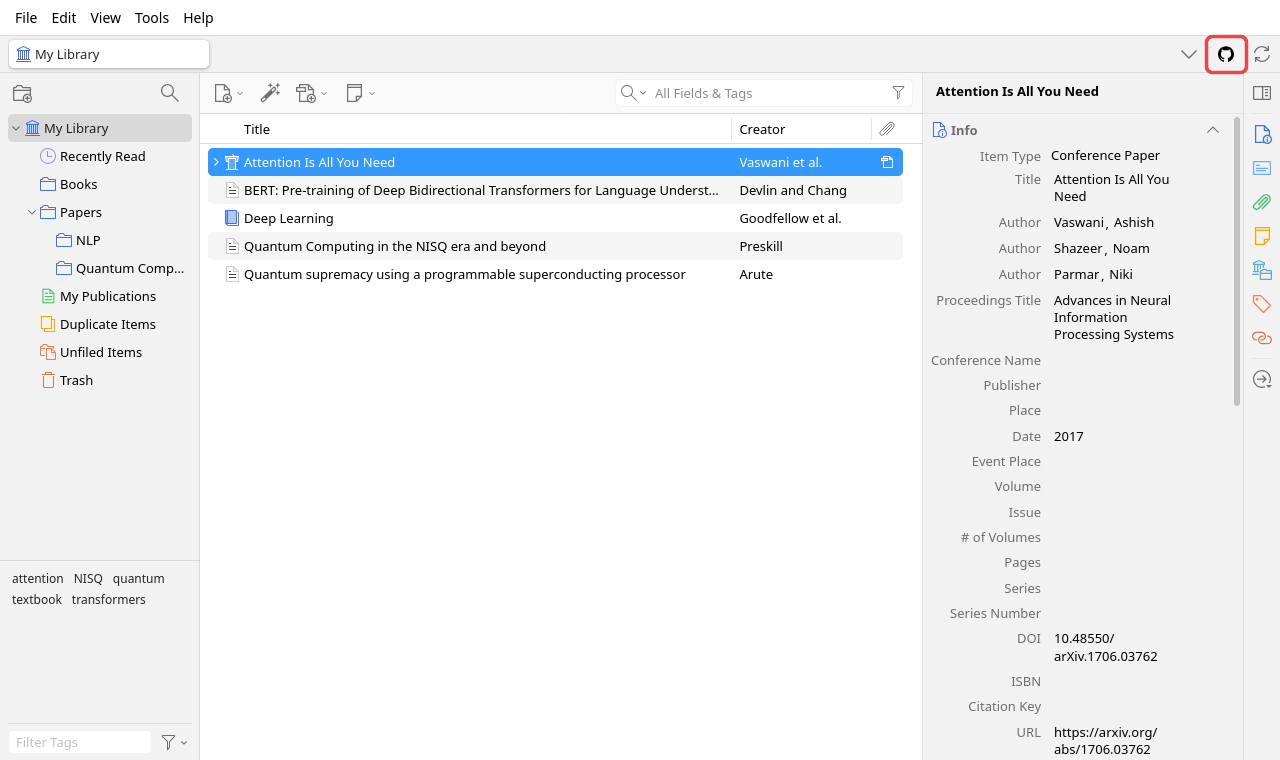
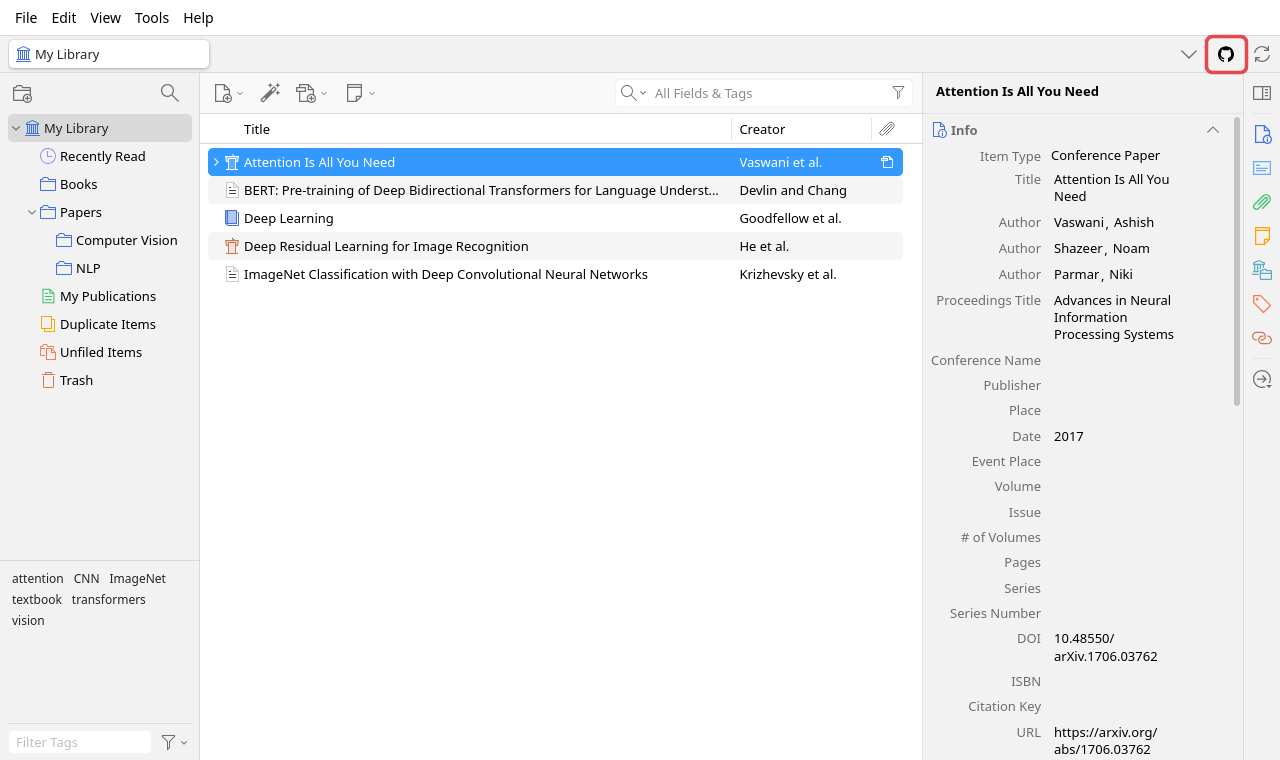
Use non-quantum sample papers in tutorial screenshots
Replace the quantum computing examples in the screenshot scenario with
computer vision papers, and retake the main window screenshot and the
toolbar crops.

diff --git a/scripts/screenshots/addon/bootstrap.js b/scripts/screenshots/addon/bootstrap.js
@@ -120,7 +120,7 @@ async function createSampleLibrary() {
 	};
 	let papers = await makeCollection('Papers');
 	let nlp = await makeCollection('NLP', papers.key);
-	let quantum = await makeCollection('Quantum Computing', papers.key);
+	let vision = await makeCollection('Computer Vision', papers.key);
 	let books = await makeCollection('Books');
 
 	let samples = [
@@ -138,16 +138,16 @@ async function createSampleLibrary() {
 			fields: { publicationTitle: 'NAACL-HLT', DOI: '10.18653/v1/N19-1423' }, tags: ['transformers'],
 		},
 		{
-			type: 'journalArticle', collection: quantum,
-			title: 'Quantum supremacy using a programmable superconducting processor', date: '2019',
-			creators: [['Frank', 'Arute']],
-			fields: { publicationTitle: 'Nature', volume: '574', pages: '505-510', DOI: '10.1038/s41586-019-1666-5' }, tags: ['quantum'],
+			type: 'conferencePaper', collection: vision,
+			title: 'Deep Residual Learning for Image Recognition', date: '2016',
+			creators: [['Kaiming', 'He'], ['Xiangyu', 'Zhang'], ['Shaoqing', 'Ren'], ['Jian', 'Sun']],
+			fields: { proceedingsTitle: 'IEEE Conference on Computer Vision and Pattern Recognition', DOI: '10.1109/CVPR.2016.90' }, tags: ['CNN', 'vision'],
 		},
 		{
-			type: 'journalArticle', collection: quantum,
-			title: 'Quantum Computing in the NISQ era and beyond', date: '2018',
-			creators: [['John', 'Preskill']],
-			fields: { publicationTitle: 'Quantum', volume: '2', pages: '79', DOI: '10.22331/q-2018-08-06-79' }, tags: ['quantum', 'NISQ'],
+			type: 'journalArticle', collection: vision,
+			title: 'ImageNet Classification with Deep Convolutional Neural Networks', date: '2017',
+			creators: [['Alex', 'Krizhevsky'], ['Ilya', 'Sutskever'], ['Geoffrey E.', 'Hinton']],
+			fields: { publicationTitle: 'Communications of the ACM', volume: '60', pages: '84-90', DOI: '10.1145/3065386' }, tags: ['CNN', 'ImageNet'],
 		},
 		{
 			type: 'book', collection: books,
